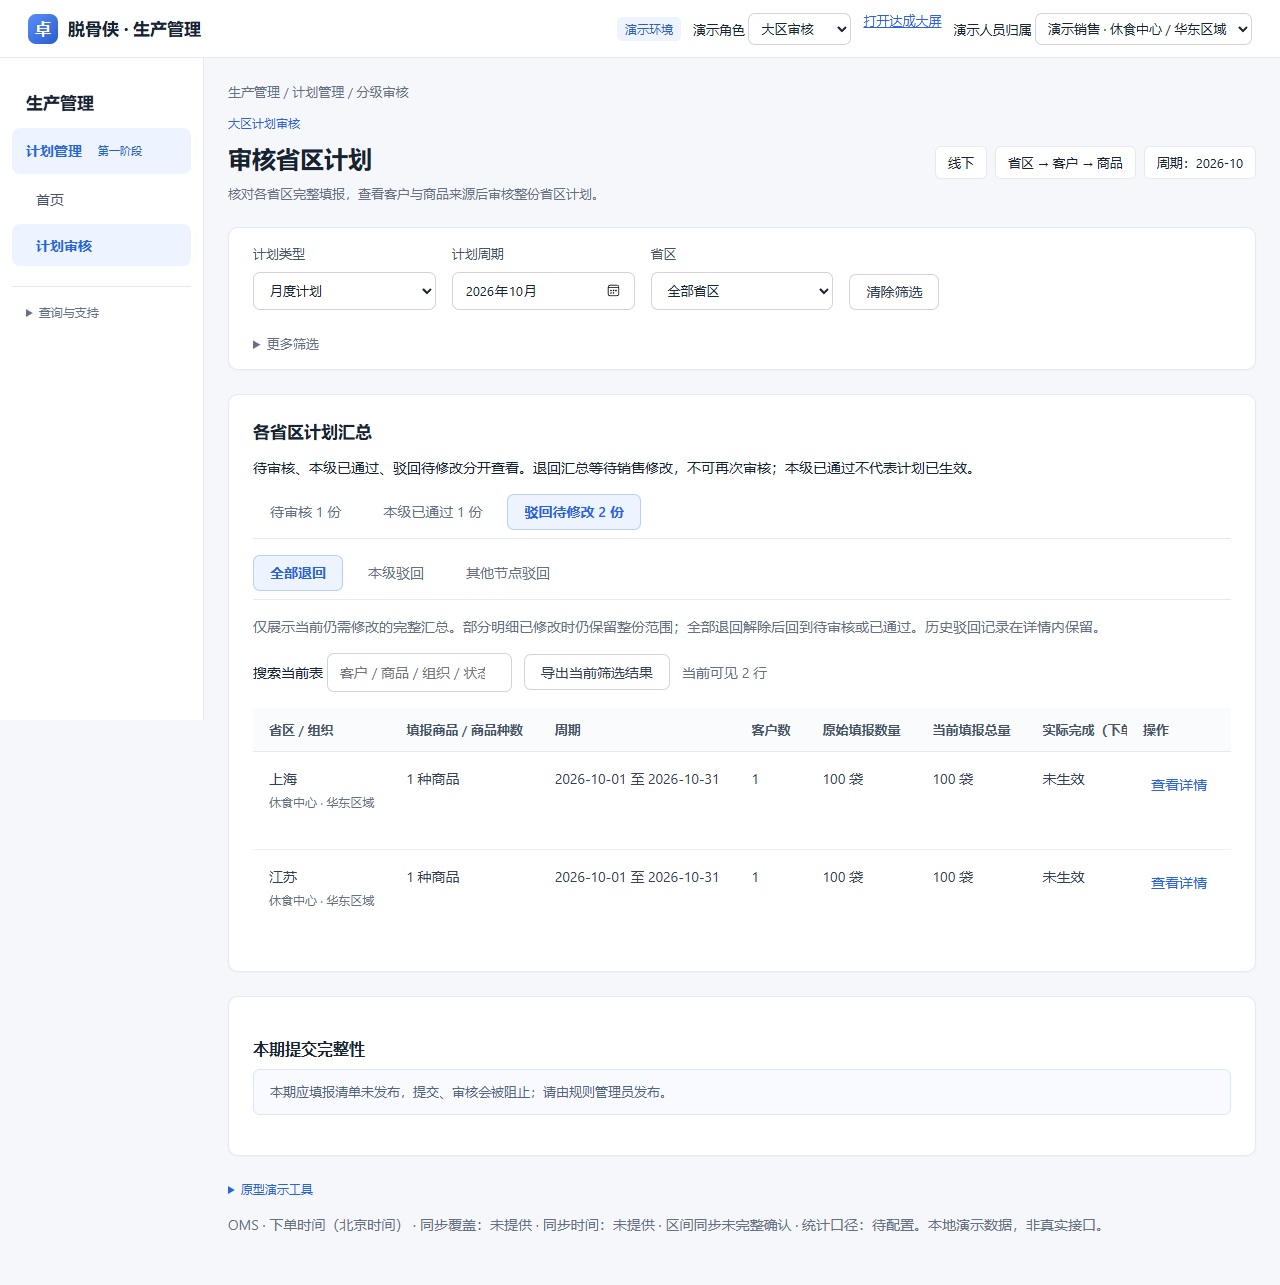
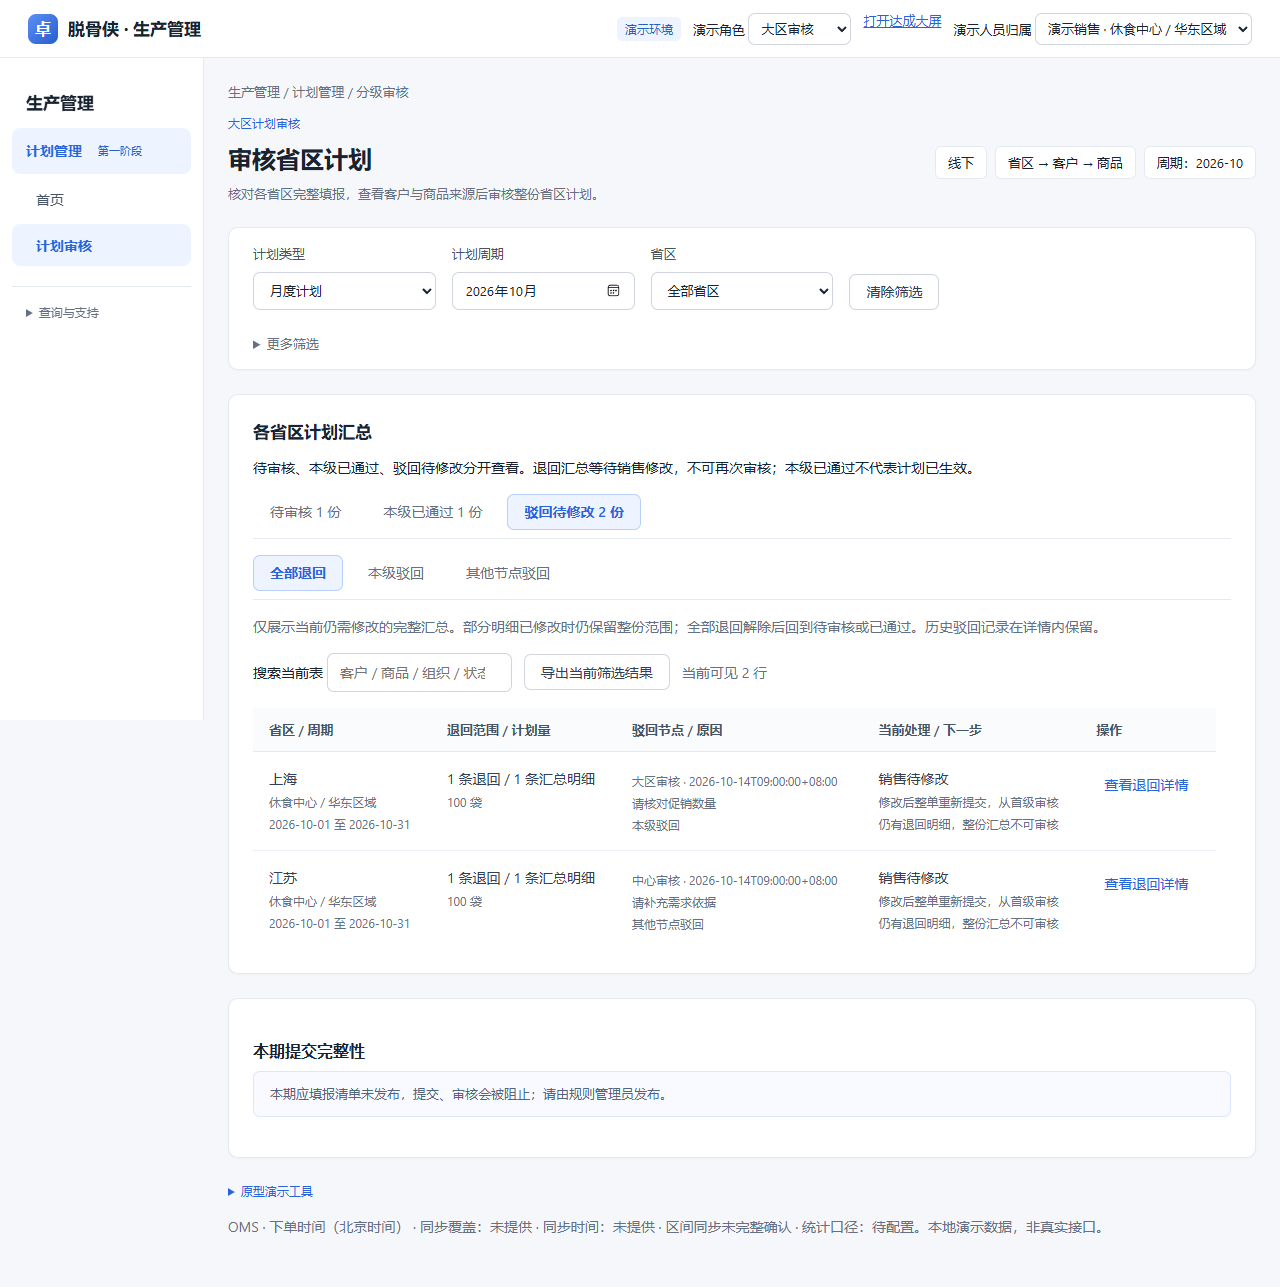
Auto sync 2026-10-14 08:48:57

diff --git a/09-设计与原型/销售计划管理/分级计划汇总.js b/09-设计与原型/销售计划管理/分级计划汇总.js
@@ -10,7 +10,7 @@
  function completeSelection(xs){if(BusinessRelease.reviewGuard(d,xs,role))return false;const gs=groups(xs,dimension);return gs.every(g=>{const full=groups(d.plans.filter(p=>(api.filters().achievementDemo?!!p.achievementDemo:!p.achievementDemo)&&p.business===(role==='丹总'?'online':'offline')&&p.kind===api.kind()&&!p.archived),dimension).find(v=>v.name===g.name&&v.center===g.center&&(dimension==='center'||v.area===g.area)&&v.start===g.start&&v.end===g.end);return full&&full.plans.length===g.plans.length&&ready(full.plans);});}
  function quantities(xs,value=p=>p.qty){const map=new Map();xs.forEach(p=>map.set(p.unit,(map.get(p.unit)||0)+Number(value(p)||0)));return [...map].map(([unit,qty])=>qty.toLocaleString('zh-CN')+' '+E(unit)).join(' / ');}
  function groups(xs,key){const map=new Map(),org=['center','area','province','channel','customer'].includes(key);xs.forEach(p=>{const keys=[p.center,['province','customer'].includes(key)?p.area:'',key==='customer'?p.province:'',p[key],org?'all':p.product,org?'all':p.unit,p.start,p.end];const k=JSON.stringify(keys),g=map.get(k)||{name:p[key]||'客户待维护',product:org?'all':p.product,unit:org?'':p.unit,center:p.center,area:p.area,start:p.start,end:p.end,plans:[]};g.plans.push(p);map.set(k,g);});return [...map.values()];}
- function table(xs,key,reviewed=false,readonly=false,returned=false){const gs=groups(xs,key);return {gs,html:`<div class="table-wrap"><table><thead><tr><th>${label[key]}${role==='丹总'?'':' / 组织'}</th><th>填报商品 / 商品种数</th><th>周期</th><th>${role==='丹总'?'渠道数':'客户数'}</th><th>原始填报数量</th><th>当前填报总量</th>${PlanAchievement.headings()}${returned?'<th>驳回节点 / 时间</th><th>退回原因 / 修改要求</th><th>当前处理 / 下一步</th>':reviewed?'<th>审核结果</th><th>审核数量</th><th>审核意见 / 时间</th>' :readonly?'<th>计划进度</th>':'<th>待本级审核</th>'}<th>操作</th></tr></thead><tbody>${gs.map((g,i)=>`<tr><td>${E(key==='product'?(d.products.find(p=>p.id===g.name)?.name||g.name):g.name)}<small>${role==='丹总'?'线上渠道':E(g.center)+' · '+E(key==='center'?'各大区汇总':g.area)}</small></td><td>${E(g.product==='all'?new Set(g.plans.map(p=>p.product)).size+' 种商品':d.products.find(p=>p.id===g.product)?.name||g.product)}</td><td>${g.start} 至 ${g.end}</td><td>${new Set(g.plans.map(p=>role==='丹总'?p.channel:p.customer).filter(Boolean)).size}</td><td>${quantities(g.plans,p=>p.versions[0].qty)}</td><td>${quantities(g.plans)}</td>${PlanAchievement.cells(d,g.plans)}${returned?`<td>${returnInfo(g).detail}<small>${returnInfo(g).own?'含本级驳回':''}${returnInfo(g).own&&returnInfo(g).other?' / ':''}${returnInfo(g).other?'含其他节点驳回':''}</small></td><td>${returnInfo(g).reason}</td><td>销售待修改<small>${returnInfo(g).count} 条退回 / ${g.plans.length} 条汇总明细</small><small>修改后整单重新提交，从首级审核；本汇总当前不可审核。</small></td>`:reviewed?`<td>${E([...new Set(g.plans.map(p=>audit(p)?.action.includes('驳回')?'驳回':'通过'))].join(' / '))}</td><td>${quantities(g.plans,p=>audit(p)?.qty)}</td><td>${g.plans.map(p=>`<small>${E(p.id)} · ${E(audit(p)?.opinion||'无补充意见')} · ${E(audit(p)?.at)}</small>`).join('')}</td>`:`<td>${readonly?E([...new Set(g.plans.map(p=>SalesPlan.status(d,p)))].join(' / ')):ready(g.plans)&&completeSelection(g.plans)?g.plans.length+' 条待整份审核':E(BusinessRelease.reviewGuard(d,g.plans,role)||'下级未完成 / 存在草稿、驳回或部分审核')}</td>`}<td><button data-group="${i}">查看详情</button>${!readonly&&!reviewed&&ready(g.plans)&&completeSelection(g.plans)?` <button class="primary review-row-pass" data-group-review="${i}">审核整份计划</button> <button class="review-row-reject" data-group-reject="${i}">驳回</button>`:''}</td></tr>`).join('')}</tbody></table></div>`};}
+ function table(xs,key,reviewed=false,readonly=false,returned=false){const gs=groups(xs,key);if(returned)return {gs,html:'<div class="table-wrap"><table class="returned-review-table"><thead><tr><th>'+label[key]+' / 周期</th><th>退回范围 / 计划量</th><th>驳回节点 / 原因</th><th>当前处理 / 下一步</th><th>操作</th></tr></thead><tbody>'+gs.map((g,i)=>{const info=returnInfo(g);return '<tr><td>'+E(g.name)+'<small>'+E(g.center+(key==='center'?' / 各大区汇总':' / '+g.area))+'</small><small>'+E(g.start+' 至 '+g.end)+'</small></td><td>'+info.count+' 条退回 / '+g.plans.length+' 条汇总明细<small>'+quantities(g.plans)+'</small></td><td>'+info.detail+info.reason+'<small>'+E(info.own&&info.other?'本级及其他节点均有退回':info.own?'本级驳回':info.other?'其他节点驳回':'退回节点待核实')+'</small></td><td>销售待修改<small>修改后整单重新提交，从首级审核</small><small>仍有退回明细，整份汇总不可审核</small></td><td><button data-group="'+i+'">查看退回详情</button></td></tr>';}).join('')+'</tbody></table></div>'};return {gs,html:`<div class="table-wrap"><table><thead><tr><th>${label[key]}${role==='丹总'?'':' / 组织'}</th><th>填报商品 / 商品种数</th><th>周期</th><th>${role==='丹总'?'渠道数':'客户数'}</th><th>原始填报数量</th><th>当前填报总量</th>${PlanAchievement.headings()}${returned?'<th>驳回节点 / 时间</th><th>退回原因 / 修改要求</th><th>当前处理 / 下一步</th>':reviewed?'<th>审核结果</th><th>审核数量</th><th>审核意见 / 时间</th>' :readonly?'<th>计划进度</th>':'<th>待本级审核</th>'}<th>操作</th></tr></thead><tbody>${gs.map((g,i)=>`<tr><td>${E(key==='product'?(d.products.find(p=>p.id===g.name)?.name||g.name):g.name)}<small>${role==='丹总'?'线上渠道':E(g.center)+' · '+E(key==='center'?'各大区汇总':g.area)}</small></td><td>${E(g.product==='all'?new Set(g.plans.map(p=>p.product)).size+' 种商品':d.products.find(p=>p.id===g.product)?.name||g.product)}</td><td>${g.start} 至 ${g.end}</td><td>${new Set(g.plans.map(p=>role==='丹总'?p.channel:p.customer).filter(Boolean)).size}</td><td>${quantities(g.plans,p=>p.versions[0].qty)}</td><td>${quantities(g.plans)}</td>${PlanAchievement.cells(d,g.plans)}${returned?`<td>${returnInfo(g).detail}<small>${returnInfo(g).own?'含本级驳回':''}${returnInfo(g).own&&returnInfo(g).other?' / ':''}${returnInfo(g).other?'含其他节点驳回':''}</small></td><td>${returnInfo(g).reason}</td><td>销售待修改<small>${returnInfo(g).count} 条退回 / ${g.plans.length} 条汇总明细</small><small>修改后整单重新提交，从首级审核；本汇总当前不可审核。</small></td>`:reviewed?`<td>${E([...new Set(g.plans.map(p=>audit(p)?.action.includes('驳回')?'驳回':'通过'))].join(' / '))}</td><td>${quantities(g.plans,p=>audit(p)?.qty)}</td><td>${g.plans.map(p=>`<small>${E(p.id)} · ${E(audit(p)?.opinion||'无补充意见')} · ${E(audit(p)?.at)}</small>`).join('')}</td>`:`<td>${readonly?E([...new Set(g.plans.map(p=>SalesPlan.status(d,p)))].join(' / ')):ready(g.plans)&&completeSelection(g.plans)?g.plans.length+' 条待整份审核':E(BusinessRelease.reviewGuard(d,g.plans,role)||'下级未完成 / 存在草稿、驳回或部分审核')}</td>`}<td><button data-group="${i}">查看详情</button>${!readonly&&!reviewed&&ready(g.plans)&&completeSelection(g.plans)?` <button class="primary review-row-pass" data-group-review="${i}">审核整份计划</button> <button class="review-row-reject" data-group-reject="${i}">驳回</button>`:''}</td></tr>`).join('')}</tbody></table></div>`};}
  function bind(container,result,key){bindRejects(container,result);container.querySelectorAll('[data-group]').forEach(b=>b.onclick=()=>detail(result.gs[Number(b.dataset.group)].plans,key));container.querySelectorAll('[data-group-review]').forEach(b=>b.onclick=()=>approve(result.gs[Number(b.dataset.groupReview)].plans,false,false));}
  function detail(xs,key,back){const next={center:'area',area:'province',province:'customer'}[key]||'customer',tabs=key==='channel'?['product']:key==='center'?['area','province','customer','product']:key==='area'?['province','customer','product']:['customer','product'];let selected=key==='channel'?'product':next;const name={area:'大区计划',province:'省区计划',customer:'客户明细',product:'商品汇总'};
  api.modal('商品计划汇总详情',`<div class="row space"><p>当前范围：${E([...new Set(xs.map(p=>p[key]||p.province))].join('、'))} · 来源 ${xs.length} 条计划 · 合计 ${quantities(xs)}</p>${back?'<button id="summaryBack">返回上一层</button>':''}</div><div class="summary-tabs" role="tablist" aria-label="汇总详情维度">${tabs.map(k=>`<button type="button" role="tab" id="summaryTab-${k}" aria-controls="summaryPanel" data-dimension="${k}" aria-selected="${k===selected}" tabindex="${k===selected?0:-1}">${name[k]}</button>`).join('')}</div>${!back&&key===dimension&&ready(xs)&&completeSelection(xs)?'<div class="actions"><button id="reviewWholeSummary" class="primary">审核整份计划</button></div>':''}<section id="summaryPanel" role="tabpanel" aria-labelledby="summaryTab-${selected}" tabindex="0"></section>`);

diff --git a/09-设计与原型/销售计划管理/销售计划管理.css b/09-设计与原型/销售计划管理/销售计划管理.css
@@ -84,3 +84,5 @@ body:not(.screen) header{height:auto;min-height:58px}#salesPerson{max-width:360p
 .role-home .home-results strong,.role-home .home-achievement strong{overflow-wrap:anywhere;font-size:24px}
 .role-home .home-results small{display:block;margin-top:8px;line-height:1.6}
 .role-home .table-wrap table{min-width:1500px}
+.returned-review-table td,.returned-review-table td small{white-space:normal;overflow:visible;text-overflow:clip;overflow-wrap:anywhere}
+.returned-review-table td:nth-child(3){min-width:240px}
